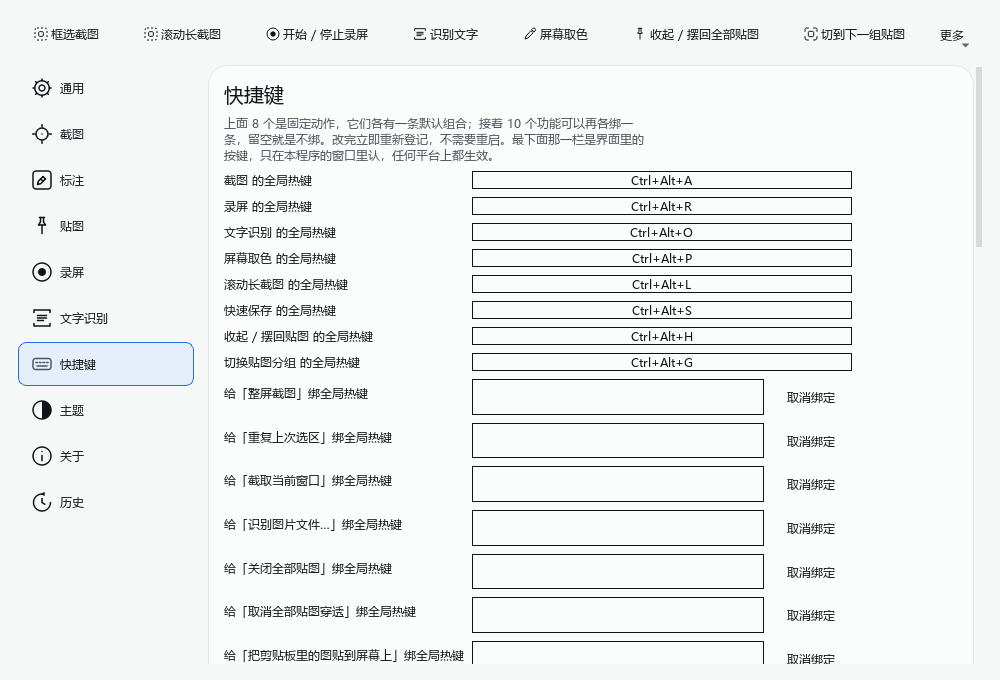
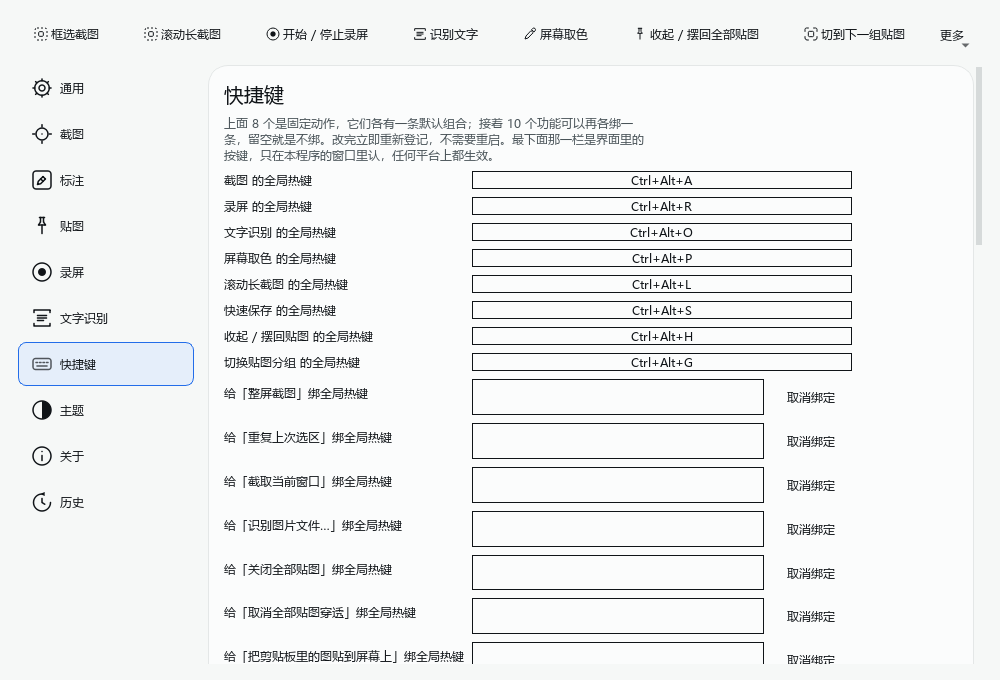
docs: 界面审查修复批回填——两档门禁读数、焦点实现约束与两张重出的图
- README：历史空态引导与主窗几何记忆写进对应章节；两档门禁读数更新为
  Debug 954（951 绿 / 3 环境跳过）、Release 957（955 绿 / 2 环境跳过），0 失败。
- UiStyleGuide §5：记下滑块焦点的实现约束——控件级 QSS 边框在 CC_Slider 自绘路径
  里不落笔，焦点挂在 ::handle:horizontal:focus 上做反转，别「统一」回 QSlider:focus。
- docs/images：main-history（空态引导）与 main-hotkey（单键说明折行后排版）重出。

diff --git a/docs/UiStyleGuide.md b/docs/UiStyleGuide.md
@@ -160,8 +160,12 @@ QWidget 子类要吃样式表的背景必须 `setAttribute(Qt::WA_StyledBackgrou
 
 - 每个动作都有键盘路径：全局热键见 README 的热键表，界面内 `Enter`/`Esc`/`Tab` 顺序由 QSS 的
   `:focus` 焦点圈（主色描边）体现，`QPushButton:default` 给主操作单独配色。
-- 焦点可见性是硬要求：`:focus` 规则在三份 QSS 里都在；高对比度档把边框加粗到 2px，
-  这条由 `ThemeManagerFixture` 在样式表文本里核（`2PX SOLID`）。
+- 焦点可见性是硬要求：`:focus` 规则在三份 QSS 里都在；高对比度档把边框加粗到 2px。
+  样式表文本由 `ThemeManagerFixture` 核（`2PX SOLID`），画出来的像素由
+  `CheckboxAndSliderShowAKeyboardFocusRing` 核勾选框与滑块的焦点形态。
+  滑块有一条实现约束：QSS 的控件级边框在 `CC_Slider` 的自绘路径里不落笔（换背景色、
+  补 `WA_StyledBackground` 都不救），焦点只能挂在 `::handle:horizontal:focus` 上做反转
+  （底色芯 + 正文色圈）；别把它「统一」回 `QSlider:focus` 的写法。
 - 图标全部原创 SVG（24 视框、`currentColor` 描边），描边色由 `IconProvider` 按主题注入；
   用例 `IconProviderFixture` 数的是真的画出来的像素，不是文件名。整套图的画法规格（2026-10-12 全量重绘后）：
   - 网格与安全区：24 视框，内容（含 0.75 描边外缘）压在 **2..22**；直线优先落在整数或 0.5 格点上，
